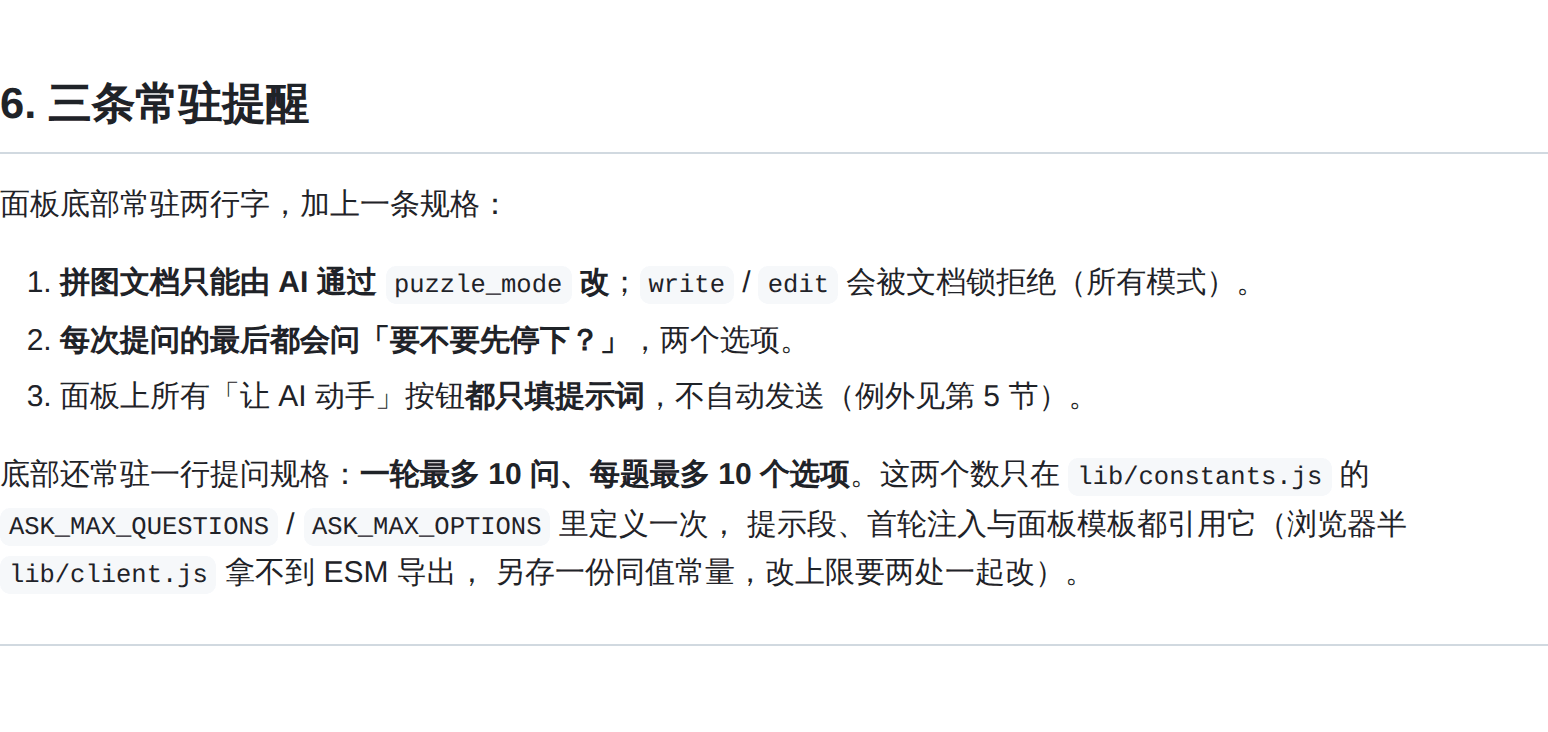
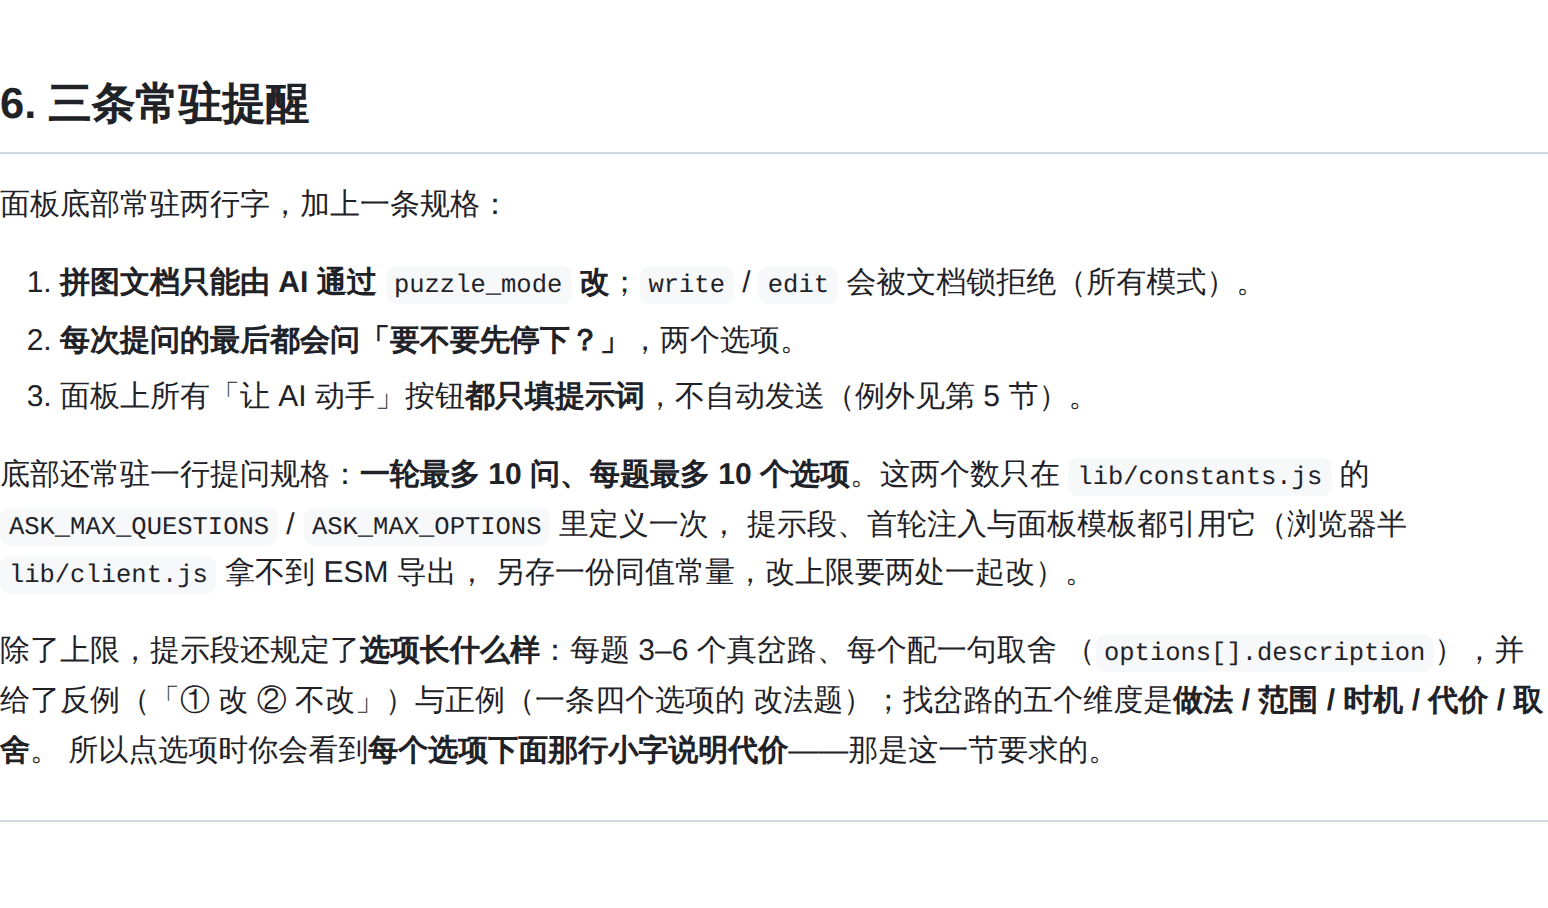
feat: 提问写深——每题 3-6 个真岔路 + 反例正例（v0.19.5）
v0.19.4 只放开了数量上限（10 问 / 10 选项），但只写「选项别只给两三个」，
没说清一个选项该长什么样——模型会凑出四个零信息量的选项
（改/不改/再看看/都行）。上限管数量，管不了质量，本版补质量。

提示段 ### 提问 新增四条：
- 每题 3-6 个真岔路，每个配一句取舍（options[].description）
- 找岔路五个维度：做法/范围/时机/代价/取舍（广度）
- 反例：『要不要改 A？』① 改 ② 不改
- 正例：『A 的改法走哪条？』四个选项各带代价（深度）
- 保留防凑数：只有一种做法时别硬凑

四条渠道全部改齐：提示段 / 首轮注入 / 面板两个模板。

成本实测：提示段 5702 → 6057 字符（+355 / +6%），刻意只给一个正例。
同步 README/UI/PUBLISH/package.json，并重渲染教程图。

diff --git a/lib/index.js b/lib/index.js
@@ -102,7 +102,7 @@ const MAX_BODY = 16384
 const OPS = ['list', 'read', 'show', 'main-doc', 'workflow', 'init', 'bind', 'unbind', 'rebuild', 'main', 'module', 'health', 'audit', 'source', 'mode', 'settings']
 
 /**
- * 提问规则那一行（提示段用）。
+ * 提问规则那几行（提示段用）。
  *
  * 为什么收成常量：这两个数原先散在多处各写一份（提示段、首轮注入、面板模板 ×3、
  * README、UI.md），改一次「5 问」就得满仓库找——漏一处就变成两套规则打架。
@@ -111,11 +111,27 @@ const OPS = ['list', 'read', 'show', 'main-doc', 'workflow', 'init', 'bind', 'un
  * 为什么首轮注入那份不直接复用本常量：`firstrun.js` 是**纯逻辑层**（不碰 ctx、
  * 可单独 import），从它反向 import 宿主半的 `index.js` 会把依赖方向倒过来。
  * 所以 `firstRunHint` 自己拼那一行——**数字**仍取自 `ASK_MAX_*`，只是措辞各写一份。
+ *
+ * 为什么带「反例 / 正例」而不只是给一句「多给选项」：v0.19.4 只写了「别只给两三个」，
+ * 但**没有说清一个选项该长什么样**——模型照着字面做，很容易凑出四个都没信息量的选项
+ * （「改 / 不改 / 再看看 / 都行」）。给一个能照抄的骨架，比给一句形容词有用。
+ * 广度 = 下面那五个维度（一次决策通常问得出 2–3 个）；深度 = 每个选项必带取舍。
  */
-const ASK_RULE_LINE = `- 你**主动提问**，不要等用户想起来才问：一轮 **最多 ${ASK_MAX_QUESTIONS} 问**、`
-  + `**每题最多 ${ASK_MAX_OPTIONS} 个选项**。能用选项就用选项，问的是真正卡住决定的点。`
-  + `**选项别只给两三个**：把真正有取舍的岔路都列出来（推荐项放第一并加「（推荐）」），`
-  + `用户点得到才叫问全了；同一件事只有一种做法时别硬凑选项，直接写进正文。`
+const ASK_RULE_LINES = [
+  `- 你**主动提问**，不要等用户想起来才问：一轮 **最多 ${ASK_MAX_QUESTIONS} 问**、`
+    + `**每题最多 ${ASK_MAX_OPTIONS} 个选项**。能用选项就用选项，问的是真正卡住决定的点。`,
+  '- **每题给 3–6 个真岔路，每个配一句取舍**（`options[].description`）。只说「① 改 ② 不改」'
+    + '等于没问——用户看不到代价就没法选。',
+  '- 找岔路从这五个维度问：**做法**（走哪条路）、**范围**（改多大 / 动几处）、'
+    + '**时机**（现在做还是先记下）、**代价**（出问题怎么退、多花什么）、'
+    + '**取舍**（快 vs 稳、通用 vs 专用）。一个决策通常问得出 2–3 个维度。',
+  '- 反例（太窄）：`要不要改 A？` ① 改 ② 不改 —— 没问出「怎么改、改多大」。',
+  '- 正例（问全）：`A 的改法走哪条？` ① 就地改（推荐）：改动最小，但 A 的旧行为消失；'
+    + '② 加开关并存：两套都留，代价是多一个配置项与两条路径；'
+    + '③ 抽新模块替换：A 退役，但要改 5 处调用点；'
+    + '④ 先不改，只把问题写进文档：零风险，但问题留着。',
+  '- **同一件事只有一种做法时别硬凑选项**——那不是岔路，写进正文说明即可。',
+]
 
 /** 提示段里反复引用的固定收尾问原文（工具返回里也带同一份）。 */
 const PAUSE_LINE = `提问的最后一项固定问「${PAUSE_QUESTION}」，选项固定两项：① ${PAUSE_OPTIONS[0]}：只回写文档 + 一句话说明，**本轮立即结束**，不执行任何动作；② ${PAUSE_OPTIONS[1]}：按当前模式继续。这一问也要用 ask_user_question 提交，不要只在正文里列。`
@@ -172,7 +188,7 @@ function policyText(context) {
     '本会话启用了「拼图模式」：把项目拆成一份**主文档**加若干**模块文档**，用提问把不确定项变成已定项。',
     '',
     '### 提问',
-    ASK_RULE_LINE,
+    ...ASK_RULE_LINES,
     '- **提问必须调 `ask_user_question` 工具**：在正文里写「① ② ③」**不算提问**——用户看不到可点选项，只能在聊天里手打。有选项就填 `options`（推荐选项放第一项并在标签后加「（推荐）」）。',
     '- 固定收尾问「' + PAUSE_QUESTION + '」同样是提问，同样走 `ask_user_question`。',
     '- ' + PAUSE_LINE,

diff --git a/lib/client.js b/lib/client.js
@@ -153,7 +153,10 @@ window.__ModuleLoader__.load({
         '先采访再建，不要提前调 op:init：',
         '- 一轮最多 ' + ASK_MAX_QUESTIONS + ' 问、每题最多 ' + ASK_MAX_OPTIONS
           + ' 个选项，能用选项就用选项，问的是真正卡住决定的点（目标、模块怎么划、边界在哪）',
-        '- **选项别只给两三个**：把真正有取舍的岔路都列出来，推荐项放第一并加「（推荐）」',
+        '- **每题给 3–6 个真岔路、每个配一句取舍**，推荐项放第一并加「（推荐）」；'
+          + '只说「① 是 ② 否」等于没问——用户看不到代价就没法选',
+        '- 找岔路问这五个维度：**做法**（走哪条路）/ **范围**（改多大）/ **时机**（现在做还是先记下）/'
+          + ' **代价**（怎么退、多花什么）/ **取舍**（快 vs 稳、通用 vs 专用）',
         '- 拿到回答后用 op:init **一次同时创建主文档与每个模块一份文档**（显式给 project 与 modules）',
         '- 项目名会成为工作区里的文件夹名；目录固定为 <工作区>/<项目名>/拼图/',
       ].join('\n')
@@ -270,6 +273,7 @@ window.__ModuleLoader__.load({
         '工作流 = **标准化流水线**：为完成某个特定任务，把重复的步骤、工具、规则按顺序串成一条可复用的路。',
         '先别写文档——用 ask_user_question 把下面这些问清（一轮最多 ' + ASK_MAX_QUESTIONS
           + ' 问、每题最多 ' + ASK_MAX_OPTIONS + ' 个选项，能用选项就用选项）：',
+        '（每题给 3–6 个真岔路、每个配一句取舍；只说「① 是 ② 否」等于没问）',
         '1. 这条流程要完成什么任务？（这就是它的名字，≤20 字）',
         '2. 从开始到结束，依次经过哪些步骤？（按真实顺序，一步一个动作）',
         '3. 每一步用什么工具 / 命令？产出什么？哪些步骤最容易漏或做错？',

diff --git a/lib/firstrun.js b/lib/firstrun.js
@@ -242,8 +242,11 @@ export function firstRunHint(existing = []) {
   lines.push(
     `- 一轮最多 ${ASK_MAX_QUESTIONS} 问、**每题最多 ${ASK_MAX_OPTIONS} 个选项**`
       + '（`ask_user_question`），问真正卡住决定的点：',
-    '  目标是什么、模块怎么划、边界在哪；**选项别只给两三个**——'
-      + '把真正有取舍的岔路都列出来，推荐项放第一并加「（推荐）」；',
+    '  目标是什么、模块怎么划、边界在哪；',
+    '- **每题给 3–6 个真岔路、每个配一句取舍**（`options[].description`），推荐项放第一；'
+      + '只说「① 是 ② 否」等于没问——用户看不到代价就没法选；',
+    '- 找岔路问这五个维度：**做法** / **范围**（改多大）/ **时机**（现在做还是先记下）/'
+      + ' **代价**（怎么退、多花什么）/ **取舍**（快 vs 稳）；',
     '- **不要提前调 `op:init`**——先拿到回答；',
     '- 拿到回答后 `puzzle_mode{op:"init"}` **一次同时创建主文档与每个模块一份文档**'
       + '（显式给 `project` 与 `modules`）；',

diff --git a/README.md b/README.md
@@ -17,7 +17,7 @@
 不是独立模式：装进宿主组合后，**标准模式（或任何 preset）的会话**都带上它。
 
 - 仓库：<https://github.com/liancha22/dsh-puzzle-mode>
-- 最新版：**v0.19.4** · [更新日志](CHANGELOG.md) · [所有版本](https://github.com/liancha22/dsh-puzzle-mode/releases)
+- 最新版：**v0.19.5** · [更新日志](CHANGELOG.md) · [所有版本](https://github.com/liancha22/dsh-puzzle-mode/releases)
 - 适配：**DSH 0.2.0-rc.2**（peer 覆盖 0.1.5 / 0.1.6 / 0.1.7 全部预发布版，见下）
 - **面板 UI 逐块说明**：[UI.md](UI.md) —— 每颗按钮、每个区块点了会怎样
 
@@ -28,7 +28,7 @@
 **方式一 · 插件管理器（推荐）**
 
 ```bash
-python3 "$DSH_HOME/plugin-manager.py" github liancha22 dsh-puzzle-mode v0.19.4
+python3 "$DSH_HOME/plugin-manager.py" github liancha22 dsh-puzzle-mode v0.19.5
 ```
 
 App 的插件页「添加插件」用的就是它，也支持标签 / 分支 / 子目录：
@@ -39,7 +39,7 @@ python3 "$DSH_HOME/plugin-manager.py" github liancha22 dsh-puzzle-mode main/lib
 
 **方式二 · 直接下载附件**
 
-[dsh-puzzle-mode-0.19.4.tgz](https://github.com/liancha22/dsh-puzzle-mode/releases/download/v0.19.4/dsh-puzzle-mode-0.19.4.tgz)
+[dsh-puzzle-mode-0.19.5.tgz](https://github.com/liancha22/dsh-puzzle-mode/releases/download/v0.19.5/dsh-puzzle-mode-0.19.5.tgz)
 （含全部源码）
 
 **方式三 · dsh CLI**
@@ -56,6 +56,32 @@ dsh plugin --profile web add github:liancha22/dsh-puzzle-mode
 ---
 
 ## 最新版本
+
+### v0.19.5 · 把提问写深：每题 3–6 个真岔路，每个配一句取舍
+
+v0.19.4 只做了「**放开上限**」。用户看过后提了下一个要求：
+**「最好写得有广度和有深度」**——因为**上限管的是数量，管不了质量**：
+
+| v0.19.4 写了什么 | 模型实际会怎么做 |
+| --- | --- |
+| 「**选项别只给两三个**」 | 照字面凑到 3–4 个，但**没说清一个选项该长什么样** |
+| （没有任何范例） | 于是很容易凑出「改 / 不改 / 再看看 / 都行」——**四个选项、零信息量** |
+
+这一版补质量，把「一句形容词」换成**可照抄的骨架**：
+
+- **每题给 3–6 个真岔路，每个配一句取舍**（`options[].description`）；
+- **找岔路的五个维度**（广度）：**做法** / **范围** / **时机** / **代价** / **取舍**——
+  给的是找岔路的方法，不是模板；一个决策通常问得出 2–3 个维度；
+- **反例**：`要不要改 A？` ① 改 ② 不改 —— 没问出「怎么改、改多大」；
+- **正例**（深度）：`A 的改法走哪条？` ① 就地改（推荐）：改动最小，但旧行为消失；
+  ② 加开关并存：两套都留，代价是多一个配置项与两条路径；③ 抽新模块替换：A 退役，
+  但要改 5 处调用点；④ 先不改，只把问题写进文档：零风险，但问题留着。
+
+**为什么用「反例 + 正例」**：模型对能照抄的骨架的遵循度明显高于形容词。正例四个选项
+正好覆盖「最小改动 / 兼容并存 / 彻底重构 / 不做」，对应最常用的三个维度。
+
+**成本**（提示段每 step 注入，长度直接等于每轮成本）：5702 → 6057 字符，**+355（+6%）**。
+刻意没给每个维度都配例子——那会让成本翻倍，而一个正例已经能定住形状。
 
 ### v0.19.4 · 提问放开：一轮最多 10 问、每题最多 10 个选项
 
@@ -113,32 +139,9 @@ dsh plugin --profile web add github:liancha22/dsh-puzzle-mode
 
 并把判据写进提示段防止复发：**返回体积应当 ∝ 本次改变了什么，而不是 ∝ 项目有多大**。
 
-### v0.19.2 · 面板教程配图（照着 UI.md 渲染，可复现）
-
-README 顶部与 [UI.md](UI.md) 各节现在**带图**了：10 张 PNG，全部由
-`npm run render-tutorial` **照着 `UI.md` 渲染**出来——图与正文同源，
-改完正文重跑一次即可，不存在「图与文字对不上」的中间态。
-
-> 为什么强调「可复现」：工作区里原先那批教程图是 **v0.16.4** 时期手工渲染的，
-> 而 `UI.md` 已经改过 4 处（模式名、文档格式 v5→v6、工作流改成图块式交互、
-> 归档加了「永久删除」）。**图与正文对不上，比没有图更糟**——
-> 所以这次不只是补图，而是补了一条能重跑的路。
-
-脚本踩过三个坑，都写进 [PUBLISH.md](PUBLISH.md) 了：页面宽必须按 **830px**
-（GitHub 正文宽）而不是 1400 渲染，否则进页面被缩到 0.59x、字糊；渲染前要
-**剥掉正文里的 `![](...)`**，否则自引用会渲染出一排破图图标；表格要
-`table-layout:fixed`，否则窄宽下长句把表格撑出画布。
-
-**体积**：渲染后量化到 256 色，5.6MB → **2.2MB**（文字仍锐利）。
-图放 `.github/images/`，**随仓库分发**（`plugin-manager.py github` 下的是整仓 tarball），
-所以装了插件的人本机看文档也能看到图。
-
-> 真面板截图（工作区 `预览/面板-*.png` 那类）**不是**本脚本产出的——那必须真面板
-> 跑起来截，本脚本产出的是「`UI.md` 的渲染图」，两者不是一回事。
-
 ### 更早的版本
 
-v0.19.1 及更早（一直到 v0.9.0）的说明已挪到 **[CHANGELOG.md](CHANGELOG.md)**；
+v0.19.2 及更早（一直到 v0.9.0）的说明已挪到 **[CHANGELOG.md](CHANGELOG.md)**；
 每个版本的完整正文与验收判据见 [Releases](https://github.com/liancha22/dsh-puzzle-mode/releases)。
 
 ---
@@ -150,8 +153,11 @@ v0.19.1 及更早（一直到 v0.9.0）的说明已挪到 **[CHANGELOG.md](CHANG
 插件会往会话里注入一段规则，规定 AI 怎么问：
 
 - **主动提问**，一轮**最多 10 问**、**每题最多 10 个选项**，能用选项就用选项；
-- **选项别只给两三个**——把真正有取舍的岔路都列出来（推荐项放第一并加「（推荐）」），
-  你点得到才叫问全了；只有一种做法时别硬凑选项；
+- **每题给 3–6 个真岔路，每个配一句取舍**（`options[].description`）。只说「① 改 ② 不改」
+  等于没问——你看不到代价就没法选；推荐项放第一并加「（推荐）」；
+- **找岔路从五个维度问**：做法（走哪条路）/ 范围（改多大）/ 时机（现在做还是先记下）/
+  代价（出问题怎么退、多花什么）/ 取舍（快 vs 稳、通用 vs 专用）；
+- **同一件事只有一种做法时别硬凑选项**——那不是岔路，写进正文说明即可；
 - **必须调用提问工具**——在正文里写「① ② ③」不算提问，你点不到选项；
 - 每次提问的**最后固定问「要不要先停下？」**，两个选项：
   **① 停下** → 只回写文档 + 一句话说明，本轮立即结束，不做任何动作；

diff --git a/.github/release-v0.19.5.md b/.github/release-v0.19.5.md
@@ -1,0 +1,85 @@
+# v0.19.5 · 把提问写深：每题 3–6 个真岔路，每个配一句取舍
+
+## 问题
+
+v0.19.4 只做了「**放开上限**」——10 问 / 10 选项。用户看过后提了下一个要求：
+
+> **「2，最好写得有广度和有深度」**
+
+指的就是「再加一层：提示段里带选项范例」这条路。**光放开数字不够**，原因是：
+
+| v0.19.4 写了什么 | 模型实际会怎么做 |
+| --- | --- |
+| 「**选项别只给两三个**」 | 照字面凑到 3–4 个，但**没说清一个选项该长什么样** |
+| （没有任何范例） | 于是很容易凑出「改 / 不改 / 再看看 / 都行」——**四个选项、零信息量** |
+
+一句话：**上限管的是数量，管不了质量**。这一版补的是质量。
+
+## 改动：从「一句形容词」换成「可照抄的骨架」
+
+提示段 `### 提问` 现在多出四条，每条都带具体形状：
+
+1. **每题给 3–6 个真岔路，每个配一句取舍**（`options[].description`）——
+   点明了字段，也点明了「只说『① 改 ② 不改』等于没问」；
+2. **找岔路的五个维度**（这是「广度」）：
+   **做法**（走哪条路）/ **范围**（改多大、动几处）/ **时机**（现在做还是先记下）/
+   **代价**（出问题怎么退、多花什么）/ **取舍**（快 vs 稳、通用 vs 专用）。
+   并写明「一个决策通常问得出 2–3 个维度」——**给的是找岔路的方法，不是模板**；
+3. **反例**：`要不要改 A？` ① 改 ② 不改 —— 没问出「怎么改、改多大」；
+4. **正例**（这是「深度」）：
+   > `A 的改法走哪条？` ① 就地改（推荐）：改动最小，但 A 的旧行为消失；
+   > ② 加开关并存：两套都留，代价是多一个配置项与两条路径；
+   > ③ 抽新模块替换：A 退役，但要改 5 处调用点；
+   > ④ 先不改，只把问题写进文档：零风险，但问题留着。
+
+5. 保留**防凑数**那条：只有一种做法时别硬凑选项，写进正文即可。
+
+> **为什么用「反例 + 正例」而不是再多几句规则**：模型对「能照抄的骨架」的遵循度
+> 明显高于形容词。正例里四个选项分别覆盖了「最小改动 / 兼容并存 / 彻底重构 / 不做」，
+> 正好是上面五个维度里最常用的三个（范围 + 代价 + 取舍）。
+
+## 同步改到的三处渠道
+
+同一套规则在四个地方各有一份（结构如此，见下），**全部改齐**：
+
+| 渠道 | 位置 |
+| --- | --- |
+| 提示段（每步注入，主渠道） | `lib/index.js` 的 `ASK_RULE_LINES` |
+| 首轮注入（新会话直接发需求时追加） | `lib/firstrun.js` 的 `firstRunHint` |
+| 面板「采访后再建」模板 | `lib/client.js` 的 `interviewTemplate` |
+| 面板「工作流模板」 | `lib/client.js` 的 `workflowTemplate`（加一行提示） |
+
+## 成本
+
+提示段是**每个 step 都重新注入**的，所以长度直接等于每轮成本。实测：
+
+| | 改前 | 改后 | 增 |
+| --- | --- | --- | --- |
+| 提示段总长 | 5702 字符 | 6057 字符 | **+355（+6%）** |
+| 其中提问小节 | 504 字符 | 859 字符 | +355 |
+
+刻意压在一处、不分四份重复：五个维度只列一遍，反例正例各一条。
+**没有为了「广度」把每个维度都配一个例子**——那会让每轮成本翻倍，
+而一个正例已经能定住形状。
+
+## 验收判据
+
+1. **提示段**：新会话第一轮，让模型复述提问规则，应答出
+   ① 每题 3–6 个真岔路、每个配取舍；② 五个维度（做法/范围/时机/代价/取舍）；
+   ③ 反例是「① 改 ② 不改」、正例是「A 的改法走哪条」。
+2. **首轮注入**：新会话直接发需求（未绑项目），注入文本里应有
+   「每题给 3–6 个真岔路」与五个维度。
+3. **面板模板**：点空态「采访后再建」，填进输入框的提示词应含
+   「每题给 3–6 个真岔路、每个配一句取舍」与五个维度。
+4. **真发一次提问（关键）**：让模型就一个真实决策提问，应看到
+   - 同一题里 **3–6 个选项**；
+   - **每个选项下面有一行小字说明代价**（不是只有标签）；
+   - 推荐项在第一个且带「（推荐）」徽章。
+5. **反例测试**：问一个「只有一种做法」的小事，模型**不应**硬凑出选项，
+   而应直接写进正文说明。
+
+## 同步
+
+`README.md`（功能节 + 版本三处）、`UI.md`（第 6 节 + 头部版本）、`PUBLISH.md`（第 0 节）、
+`CHANGELOG.md`、`package.json`（version + description）。
+**改过 `UI.md`，教程图已重渲染**。

diff --git a/PUBLISH.md b/PUBLISH.md
@@ -7,7 +7,7 @@
 | 项 | 现状（2026-10-02） |
 | --- | --- |
 | 仓库 | <https://github.com/liancha22/dsh-puzzle-mode>（public） |
-| 版本 | v0.19.4（提问放开：一轮最多 **10 问**、每题最多 **10 个选项**。原先只写「最多 5 问」且**完全不提选项数**——问题数放开但每题还是两三个选项，等于没放开，所以这一版同时给出选项上限并写进「别只给两三个」的规则。两个数收进 `lib/constants.js` 的 `ASK_MAX_QUESTIONS` / `ASK_MAX_OPTIONS` 一处定义，提示段、首轮注入、`op:init` 回执、面板模板与底部提示全部引用它；`client.js` 是手写 module-loader 包拿不到 ESM 导出，同值另存一份。**刻意不加校验**：`ask_user_question` 在 DSH 核心无任何数量校验，插件侧拦了反而会在核心调默认值时误报。含 v0.19.3 返回体积修复与 v0.19.2 教程图） |
+| 版本 | v0.19.5（把提问**写深**：每题 3–6 个真岔路、每个配一句取舍（`options[].description`），并给**反例**（「① 改 ② 不改」）与**正例**（一条四个选项的改法题）；找岔路的五个维度是做法 / 范围 / 时机 / 代价 / 取舍。起因是 v0.19.4 只放开了数字、**没管质量**——只写「别只给两三个」，模型会凑出四个零信息量的选项。提示段每 step 注入，成本实测 5702 → 6057 字符（**+355 / +6%**），刻意只给一个正例、五个维度不各配例子。含 v0.19.4 上限放开与 v0.19.3 返回体积修复） |
 | 兼容 | DSH `^0.1.5-alpha.1 \|\| ^0.1.6-alpha.1 \|\| ^0.1.7-alpha.1 \|\| ^0.2.0-rc.1`（peer 只声明 `@deepseek-ai/dsh-tools`；13 个已发布版本全覆盖） |
 | Release | <https://github.com/liancha22/dsh-puzzle-mode/releases> |
 | npm | **未发布**（本机装的是 GitHub 源） |

diff --git a/UI.md b/UI.md
@@ -1,6 +1,6 @@
 # 面板 UI 说明 · 每个地方有什么用
 
-> 对应 v0.19.4。面板是输入框左边那颗小按钮点开的浮层。
+> 对应 v0.19.5。面板是输入框左边那颗小按钮点开的浮层。
 > 本文只讲 **UI 上有什么、点了会怎样**；安装、模式语义、文档规格见 [README](README.md)。
 >
 > 每节的图是**照着本文件渲染**出来的（`node tools/render-tutorial.mjs`），
@@ -268,6 +268,11 @@
 `lib/constants.js` 的 `ASK_MAX_QUESTIONS` / `ASK_MAX_OPTIONS` 里定义一次，
 提示段、首轮注入与面板模板都引用它（浏览器半 `lib/client.js` 拿不到 ESM 导出，
 另存一份同值常量，改上限要两处一起改）。
+
+除了上限，提示段还规定了**选项长什么样**：每题 3–6 个真岔路、每个配一句取舍
+（`options[].description`），并给了反例（「① 改 ② 不改」）与正例（一条四个选项的
+改法题）；找岔路的五个维度是**做法 / 范围 / 时机 / 代价 / 取舍**。
+所以点选项时你会看到**每个选项下面那行小字说明代价**——那是这一节要求的。
 
 
 ![6. 三条常驻提醒](.github/images/06-三条常驻提醒.png)
